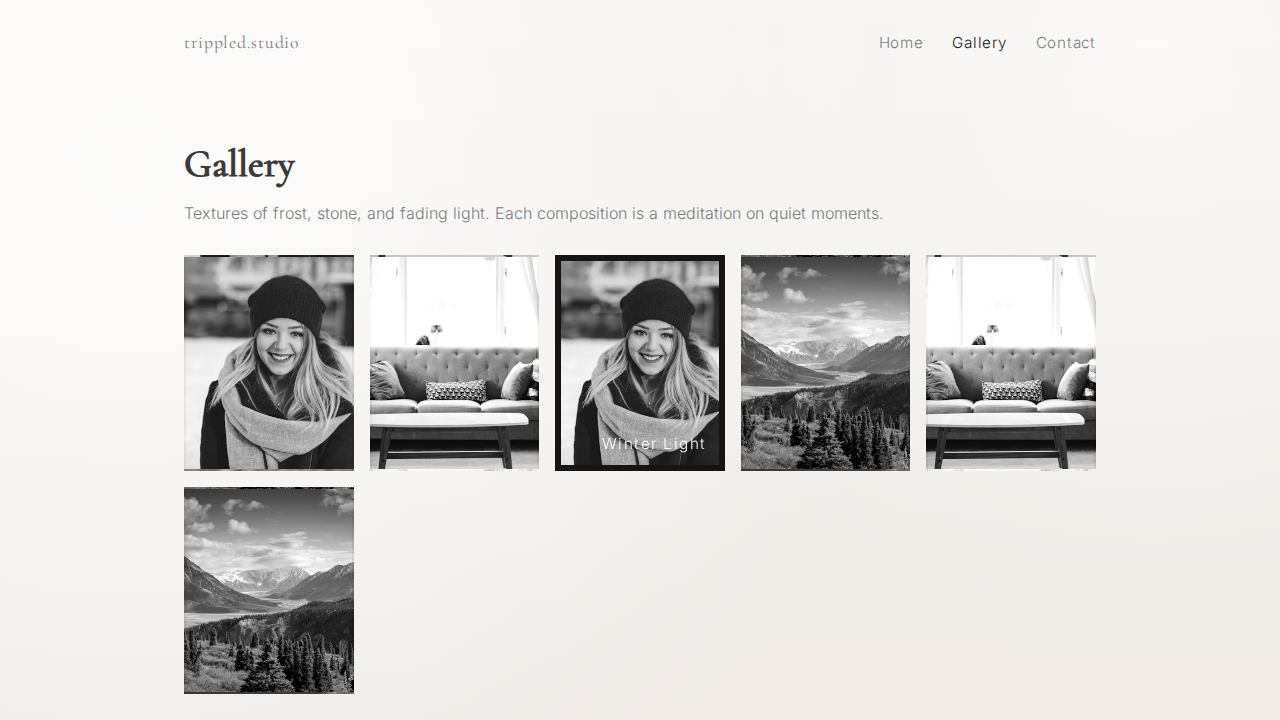
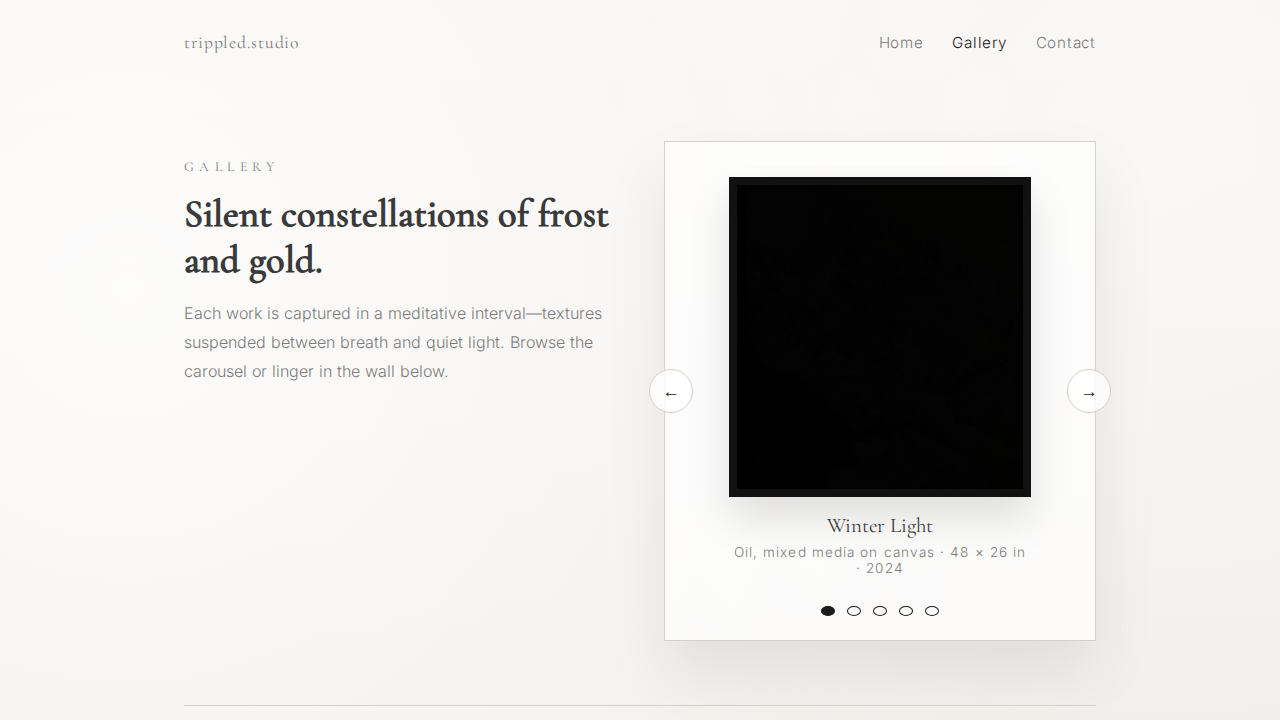
Revamp gallery page with carousel experience

Changed region(s): [[0.125, 0.2444, 0.875, 0.9778], [0.125, 0.2139, 0.25, 0.2444], [0.625, 0.825, 0.6562, 0.8556]]

diff --git a/gallery.html b/gallery.html
@@ -21,16 +21,76 @@
     </header>
 
     <main>
-      <section class="gallery">
-        <h1>Gallery</h1>
-        <p class="gallery-intro">Textures of frost, stone, and fading light. Each composition is a meditation on quiet moments.</p>
-        <div class="grid">
-          <div class="piece"></div>
-          <div class="piece"></div>
-          <div class="piece highlight"><span>Winter Light</span></div>
-          <div class="piece"></div>
-          <div class="piece"></div>
-          <div class="piece"></div>
+      <section class="gallery-hero">
+        <div class="gallery-copy">
+          <p class="tagline">Gallery</p>
+          <h1>Silent constellations of frost and gold.</h1>
+          <p>Each work is captured in a meditative interval—textures suspended between breath and quiet light. Browse the carousel or linger in the wall below.</p>
+        </div>
+        <div class="carousel" role="region" aria-label="Artwork carousel">
+          <button class="carousel-control prev" aria-label="Previous artwork">←</button>
+          <div class="slides" aria-live="polite">
+            <figure class="slide active" data-index="0">
+              <img src="assets/art-1-clean.jpg" alt="Winter Light artwork" />
+              <figcaption>
+                <span class="piece-name">Winter Light</span>
+                <span class="piece-meta">Oil, mixed media on canvas · 48 × 26 in · 2024</span>
+              </figcaption>
+            </figure>
+            <figure class="slide" data-index="1">
+              <img src="assets/art-2-clean.jpg" alt="Aerial Frost artwork" />
+              <figcaption>
+                <span class="piece-name">Aerial Frost</span>
+                <span class="piece-meta">Oil, mixed media on canvas · 36 × 36 in · 2024</span>
+              </figcaption>
+            </figure>
+            <figure class="slide" data-index="2">
+              <img src="assets/art-3-clean.jpg" alt="Veiled Branches artwork" />
+              <figcaption>
+                <span class="piece-name">Veiled Branches</span>
+                <span class="piece-meta">Oil, mixed media on canvas · 30 × 40 in · 2024</span>
+              </figcaption>
+            </figure>
+            <figure class="slide" data-index="3">
+              <img src="assets/art-4-clean.jpg" alt="Celestial Drift artwork" />
+              <figcaption>
+                <span class="piece-name">Celestial Drift</span>
+                <span class="piece-meta">Oil, mixed media on canvas · 32 × 32 in · 2024</span>
+              </figcaption>
+            </figure>
+            <figure class="slide" data-index="4">
+              <img src="assets/art-5-clean.jpg" alt="Quiet Bloom artwork" />
+              <figcaption>
+                <span class="piece-name">Quiet Bloom</span>
+                <span class="piece-meta">Oil, mixed media on canvas · 28 × 42 in · 2024</span>
+              </figcaption>
+            </figure>
+          </div>
+          <button class="carousel-control next" aria-label="Next artwork">→</button>
+          <div class="carousel-dots" role="tablist">
+            <button class="dot active" data-index="0" aria-label="Show Winter Light"></button>
+            <button class="dot" data-index="1" aria-label="Show Aerial Frost"></button>
+            <button class="dot" data-index="2" aria-label="Show Veiled Branches"></button>
+            <button class="dot" data-index="3" aria-label="Show Celestial Drift"></button>
+            <button class="dot" data-index="4" aria-label="Show Quiet Bloom"></button>
+          </div>
+        </div>
+      </section>
+
+      <section class="gallery-wall">
+        <div class="wall-caption">
+          <h2>Wall</h2>
+          <p>Install-ready arrangements echo the original mockup. Hover to let each piece breathe.</p>
+        </div>
+        <div class="wall-grid">
+          <div class="wall-piece" style="background-image:url('assets/art-2-clean.jpg')"></div>
+          <div class="wall-piece" style="background-image:url('assets/art-3-clean.jpg')"></div>
+          <div class="wall-piece focus" style="background-image:url('assets/art-1-clean.jpg')">
+            <span>Winter Light</span>
+          </div>
+          <div class="wall-piece" style="background-image:url('assets/art-4-clean.jpg')"></div>
+          <div class="wall-piece" style="background-image:url('assets/art-5-clean.jpg')"></div>
+          <div class="wall-piece" style="background-image:url('assets/art-3-clean.jpg')"></div>
         </div>
       </section>
     </main>
@@ -44,5 +104,6 @@
       </nav>
     </footer>
   </div>
+  <script src="gallery.js" defer></script>
 </body>
 </html>

diff --git a/styles.css b/styles.css
@@ -123,70 +123,174 @@ nav a.active {
   line-height: 1.8;
 }
 
-.gallery {
+.gallery-hero {
+  display: grid;
+  grid-template-columns: repeat(auto-fit, minmax(280px, 1fr));
+  gap: 48px;
   padding: 64px 0;
   border-bottom: 1px solid var(--border);
 }
 
-.gallery h1 {
+.gallery-copy .tagline {
+  font-family: 'Cormorant Garamond', serif;
+  letter-spacing: 0.4em;
+  text-transform: uppercase;
+  font-size: 0.85rem;
+  color: var(--muted);
+  margin-bottom: 12px;
+}
+
+.gallery-copy h1 {
   font-family: 'Cormorant Garamond', serif;
   font-size: 2.4rem;
-  margin: 0 0 8px;
+  margin: 0 0 16px;
 }
 
-.gallery-intro {
-  font-size: 1rem;
+.gallery-copy p {
+  line-height: 1.8;
   color: var(--muted);
-  margin-bottom: 32px;
 }
 
-.gallery .grid {
+.carousel {
+  position: relative;
+  background: rgba(255,255,255,0.7);
+  border: 1px solid var(--border);
+  box-shadow: 0 30px 60px rgba(0,0,0,0.08);
+  padding: 24px;
+}
+
+.carousel .slides {
+  position: relative;
+  overflow: hidden;
+  height: 420px;
+}
+
+.slide {
+  position: absolute;
+  inset: 0;
+  opacity: 0;
+  transition: opacity 0.65s ease;
+  display: flex;
+  flex-direction: column;
+  align-items: center;
+  justify-content: center;
+}
+
+.slide img {
+  width: 100%;
+  height: 320px;
+  object-fit: cover;
+  box-shadow: 0 20px 40px rgba(0,0,0,0.12);
+  border: 8px solid #111;
+}
+
+.slide figcaption {
+  text-align: center;
+  margin-top: 16px;
+  display: flex;
+  flex-direction: column;
+  gap: 6px;
+}
+
+.slide .piece-name {
+  font-family: 'Cormorant Garamond', serif;
+  font-size: 1.3rem;
+}
+
+.slide .piece-meta {
+  font-size: 0.85rem;
+  letter-spacing: 0.08em;
+  color: var(--muted);
+}
+
+.slide.active {
+  opacity: 1;
+}
+
+.carousel-control {
+  position: absolute;
+  top: 50%;
+  transform: translateY(-50%);
+  background: rgba(255,255,255,0.8);
+  border: 1px solid var(--border);
+  width: 44px;
+  height: 44px;
+  border-radius: 999px;
+  display: grid;
+  place-items: center;
+  font-size: 1.1rem;
+  color: var(--accent);
+}
+
+.carousel-control.prev { left: -16px; }
+.carousel-control.next { right: -16px; }
+
+.carousel-dots {
+  display: flex;
+  justify-content: center;
+  gap: 12px;
+  margin-top: 20px;
+}
+
+.carousel-dots .dot {
+  width: 10px;
+  height: 10px;
+  border-radius: 50%;
+  border: 1px solid var(--accent);
+  background: transparent;
+}
+
+.carousel-dots .dot.active {
+  background: var(--accent);
+}
+
+.gallery-wall {
+  padding: 64px 0 32px;
+}
+
+.wall-caption h2 {
+  font-family: 'Cormorant Garamond', serif;
+  letter-spacing: 0.3em;
+  font-size: 1.2rem;
+  text-transform: uppercase;
+  margin-bottom: 8px;
+}
+
+.wall-caption p {
+  margin-top: 0;
+  color: var(--muted);
+}
+
+.wall-grid {
+  margin-top: 32px;
   display: grid;
   grid-template-columns: repeat(auto-fit, minmax(160px, 1fr));
   gap: 16px;
-  margin-top: 32px;
 }
 
-.piece {
-  background-image: url('assets/art-2-clean.jpg');
+.wall-piece {
+  padding-bottom: 120%;
   background-size: cover;
   background-position: center;
-  padding-bottom: 120%;
   border: 2px solid rgba(0,0,0,0.05);
-}
-
-.piece:nth-child(2) {
-  background-image: url('assets/art-3-clean.jpg');
-}
-
-.piece:nth-child(3) {
-  background-image: url('assets/art-1-clean.jpg');
-}
-
-.piece:nth-child(4) {
-  background-image: url('assets/art-4-clean.jpg');
-}
-
-.piece:nth-child(5) {
-  background-image: url('assets/art-5-clean.jpg');
-}
-
-.piece:nth-child(6) {
-  background-image: url('assets/art-3-clean.jpg');
-}
-
-.piece.highlight {
-  border: 6px solid #1f1f1f;
   position: relative;
+  transition: transform 0.3s ease, box-shadow 0.3s ease;
 }
 
-.piece.highlight span {
+.wall-piece:hover {
+  transform: translateY(-6px);
+  box-shadow: 0 20px 30px rgba(0,0,0,0.08);
+}
+
+.wall-piece.focus {
+  border: 6px solid #131313;
+}
+
+.wall-piece.focus span {
   position: absolute;
   bottom: 12px;
   right: 12px;
-  font-family: 'Inter', sans-serif;
-  font-size: 0.95rem;
-  color: #f2f2f2;
+  color: white;
   letter-spacing: 0.1em;
 }
 

diff --git a/gallery.js b/gallery.js
@@ -1,0 +1,36 @@
+document.addEventListener('DOMContentLoaded', () => {
+  const slides = Array.from(document.querySelectorAll('.slide'));
+  const dots = Array.from(document.querySelectorAll('.dot'));
+  const prevBtn = document.querySelector('.carousel-control.prev');
+  const nextBtn = document.querySelector('.carousel-control.next');
+  let index = 0;
+
+  const setActive = (newIndex) => {
+    index = (newIndex + slides.length) % slides.length;
+    slides.forEach((slide, i) => slide.classList.toggle('active', i === index));
+    dots.forEach((dot, i) => dot.classList.toggle('active', i === index));
+  };
+
+  prevBtn.addEventListener('click', () => setActive(index - 1));
+  nextBtn.addEventListener('click', () => setActive(index + 1));
+  dots.forEach(dot => dot.addEventListener('click', () => setActive(Number(dot.dataset.index))));
+
+  // swipe support
+  const slidesContainer = document.querySelector('.slides');
+  let startX = null;
+  slidesContainer.addEventListener('touchstart', (e) => {
+    startX = e.touches[0].clientX;
+  });
+  slidesContainer.addEventListener('touchend', (e) => {
+    if (startX === null) return;
+    const delta = e.changedTouches[0].clientX - startX;
+    if (Math.abs(delta) > 40) {
+      if (delta > 0) {
+        setActive(index - 1);
+      } else {
+        setActive(index + 1);
+      }
+    }
+    startX = null;
+  });
+});

diff --git a/README.md b/README.md
@@ -18,7 +18,7 @@ Alternatively, open `index.html`, `gallery.html`, or `contact.html` directly in 
 
 ## Development Notes
 - Three static pages: `index.html` (Home), `gallery.html`, `contact.html`.
-- Shared styles live in `styles.css`; no build pipeline.
+- Shared styles live in `styles.css`; no build pipeline. `gallery.js` powers the carousel interactions.
 - Local artwork lives in `assets/` (cropped + balanced JPEGs).
 - Optional helper script `process-images.js` (Node + Jimp) crops/normalizes any new artwork. Run `npm install` once, then `node process-images.js` after dropping new files into `assets/`.
 
